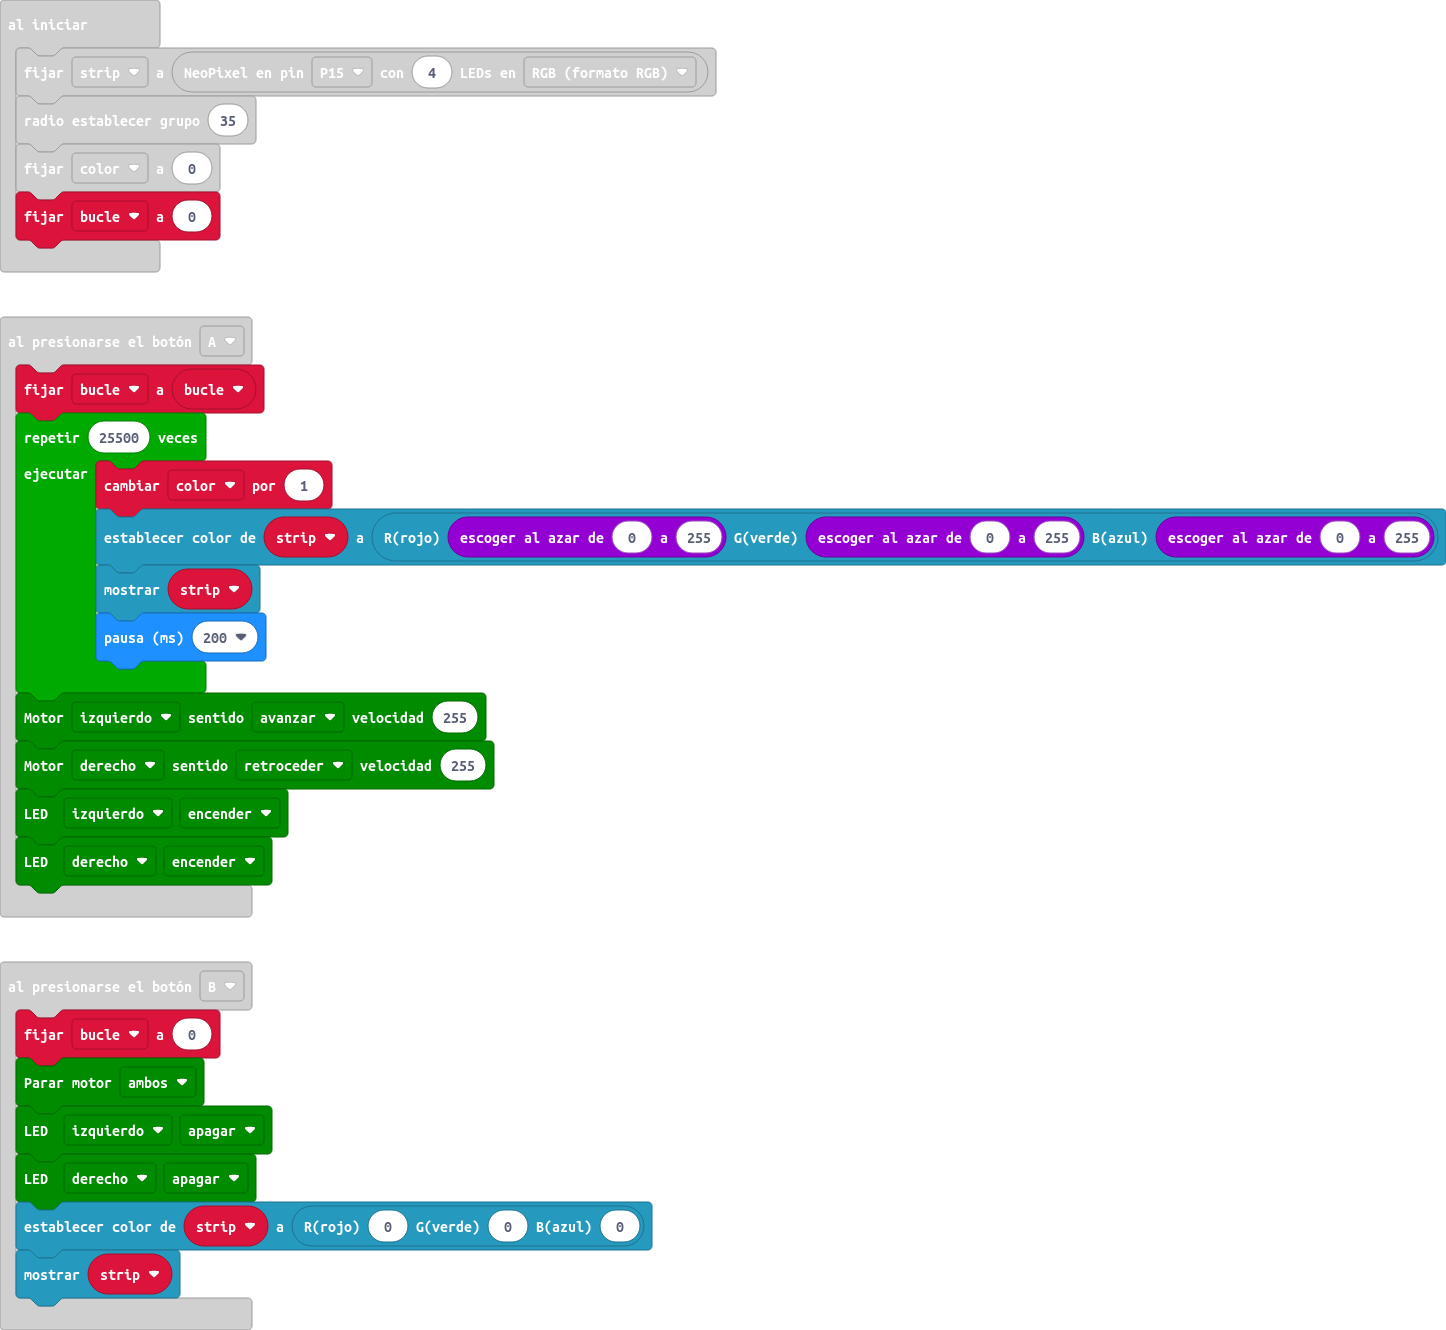
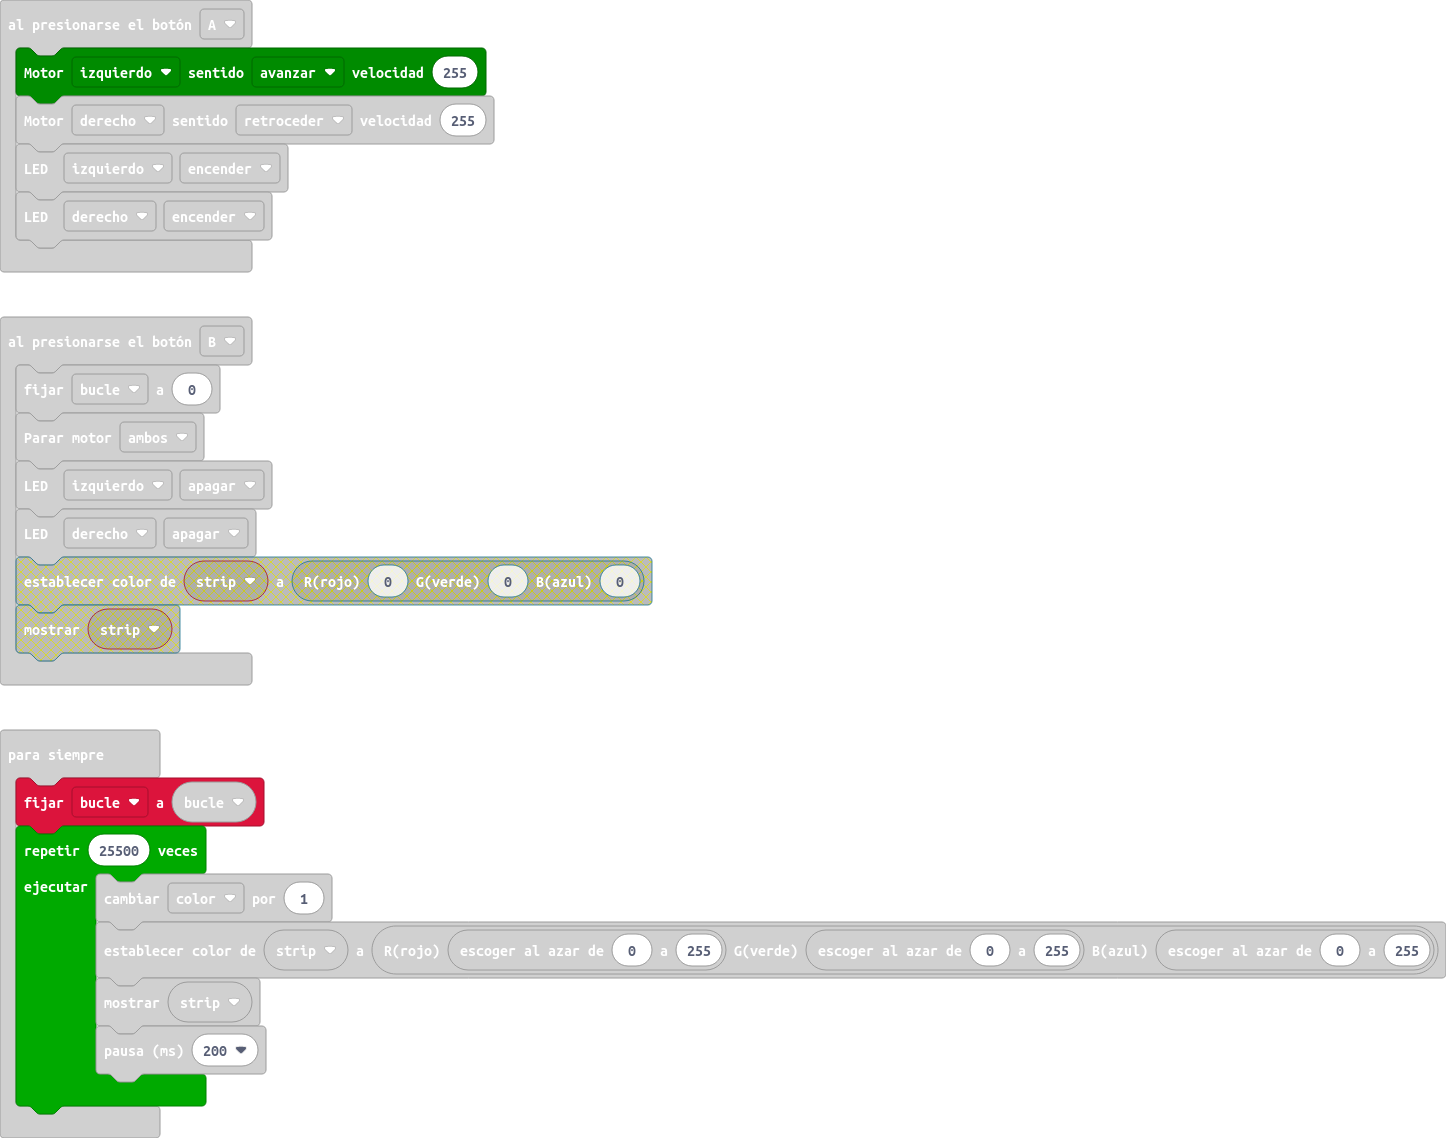
Actualizar main.blocks, main.ts

Changed region(s): [[0.0, 0.0, 1.0, 1.0]]

diff --git a/main.ts b/main.ts
@@ -2,13 +2,6 @@ radio.onReceivedNumber(function (receivedNumber) {
 	
 })
 input.onButtonPressed(Button.A, function () {
-    bucle = bucle
-    for (let index = 0; index < 25500; index++) {
-        color += 1
-        strip.showColor(neopixel.rgb(randint(0, 255), randint(0, 255), randint(0, 255)))
-        strip.show()
-        basic.pause(200)
-    }
     maqueen.motorRun(maqueen.Motors.M1, maqueen.Dir.CW, 255)
     maqueen.motorRun(maqueen.Motors.M2, maqueen.Dir.CCW, 255)
     maqueen.writeLED(maqueen.LED.LEDLeft, maqueen.LEDswitch.turnOn)
@@ -19,15 +12,18 @@ input.onButtonPressed(Button.B, function () {
     maqueen.motorStop(maqueen.Motors.All)
     maqueen.writeLED(maqueen.LED.LEDLeft, maqueen.LEDswitch.turnOff)
     maqueen.writeLED(maqueen.LED.LEDRight, maqueen.LEDswitch.turnOff)
-    strip.showColor(neopixel.rgb(0, 0, 0))
-    strip.show()
 })
 let bucle = 0
-let strip: neopixel.Strip = null
-strip = neopixel.create(DigitalPin.P15, 4, NeoPixelMode.RGB)
+let strip = neopixel.create(DigitalPin.P15, 4, NeoPixelMode.RGB)
 radio.setGroup(35)
 let color = 0
 bucle = 0
 basic.forever(function () {
-	
+    bucle = bucle
+    for (let index = 0; index < 25500; index++) {
+        color += 1
+        strip.showColor(neopixel.rgb(randint(0, 255), randint(0, 255), randint(0, 255)))
+        strip.show()
+        basic.pause(200)
+    }
 })
